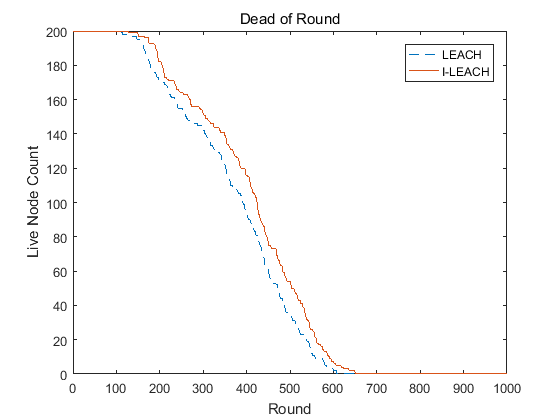
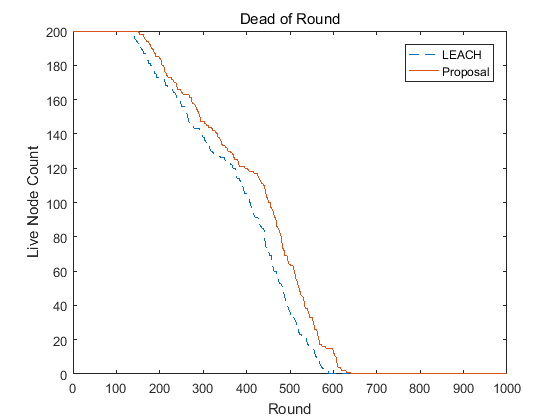
show average value

diff --git a/leach.m b/leach.m
@@ -50,6 +50,8 @@ IS_MERGE = true
 cluster_data_count = 20;
 leach_data = [];
 initil_leach_data = [];
+leach_data_length = zeros(1, rmax);
+initil_data_length = zeros(1, rmax);
 dead_node_id = zeros(1, n);
 
 
@@ -197,7 +199,13 @@ for leach_round=1:1:2
     end
     % string to 16 bits
     packetLength = length(dec2bin(round_sensing_data, 16) - '0')*16;
-
+    
+    
+    if leach_round == 1
+        leach_data_length((r+1)) = packetLength;
+    else
+        initil_data_length((r+1)) = packetLength;
+    end 
     
     % if (dead == n)
     if r == rmax
@@ -321,6 +329,7 @@ for leach_round=1:1:2
     voronoi(X,Y);
     axis([10 xm 0 ym]);
 
+
     end
 
     x=1:1:r;
@@ -345,8 +354,12 @@ plot(leach_data(1, [1:rmax]),leach_data(2, [1:rmax]),'--', initil_leach_data(1, 
 title('Dead of Round')
 xlabel('Round')
 ylabel('Live Node Count')
-legend('LEACH', 'I-LEACH')
+legend('LEACH', 'Proposal')
 hold on;
+
+fix(mean(leach_data_length))
+
+fix(mean(initil_data_length))
 %%%%%%%%%%%%%%%%%%%%%%%%%%%%%%%%%%%   STATISTICS GRAPH PLOT SIR   %%%%%%%%%%%%%%%%%%%%%%%%%%%%%%%%%%%
 %                                                                                     %
 %  DEAD  : a rmax x 1 array of number of dead nodes/round 
